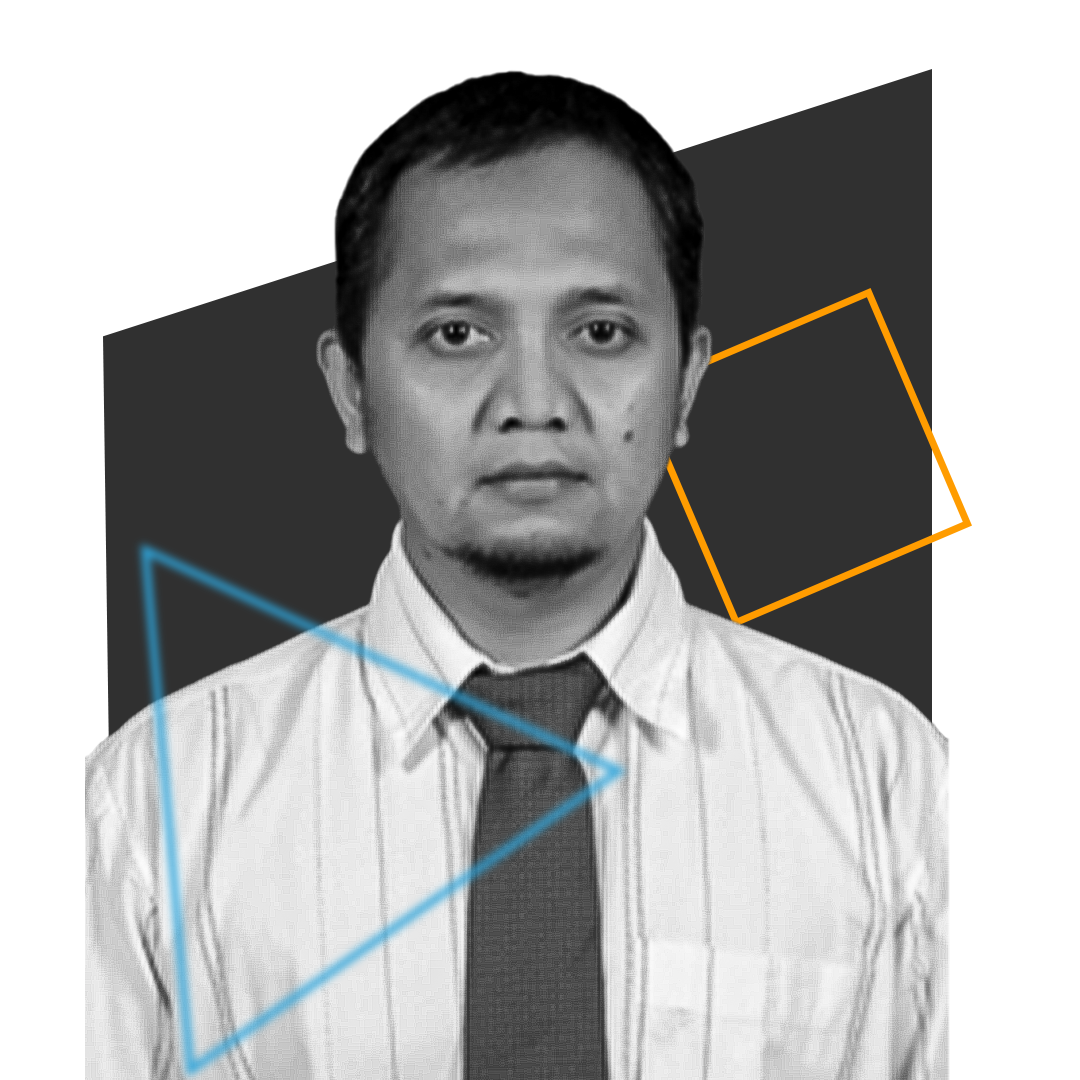
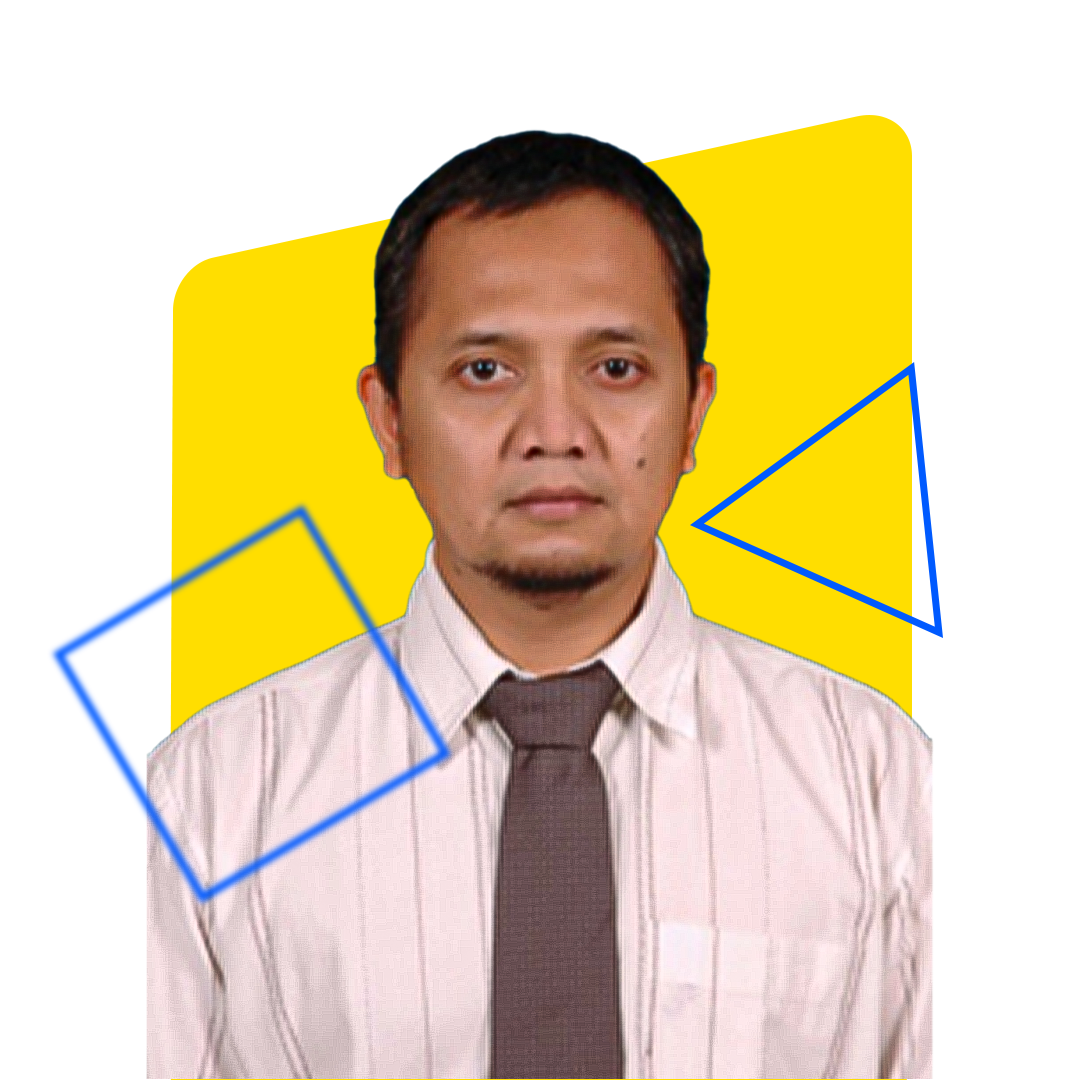
speakers

diff --git a/index.html b/index.html
@@ -134,7 +134,7 @@
           </div>
           <div class="col-lg-4 col-md-6">
             <div class="speaker" data-aos="fade-up" data-aos-delay="200">
-              <img src="assets/img/speakers/male.png" alt="Speaker 2" class="img-fluid">
+              <img src="assets/img/speakers/2.png" alt="Speaker 2" class="img-fluid">
               <div class="details">
                 <h3 style="font-size: 15px;"><a href="">Devi Taufiq Nurrohman, S.Si., M.Sc.</a></h3>
                 <p>Politeknik Negeri Cilacap - Doctoral Program Electro-Optical</p>
